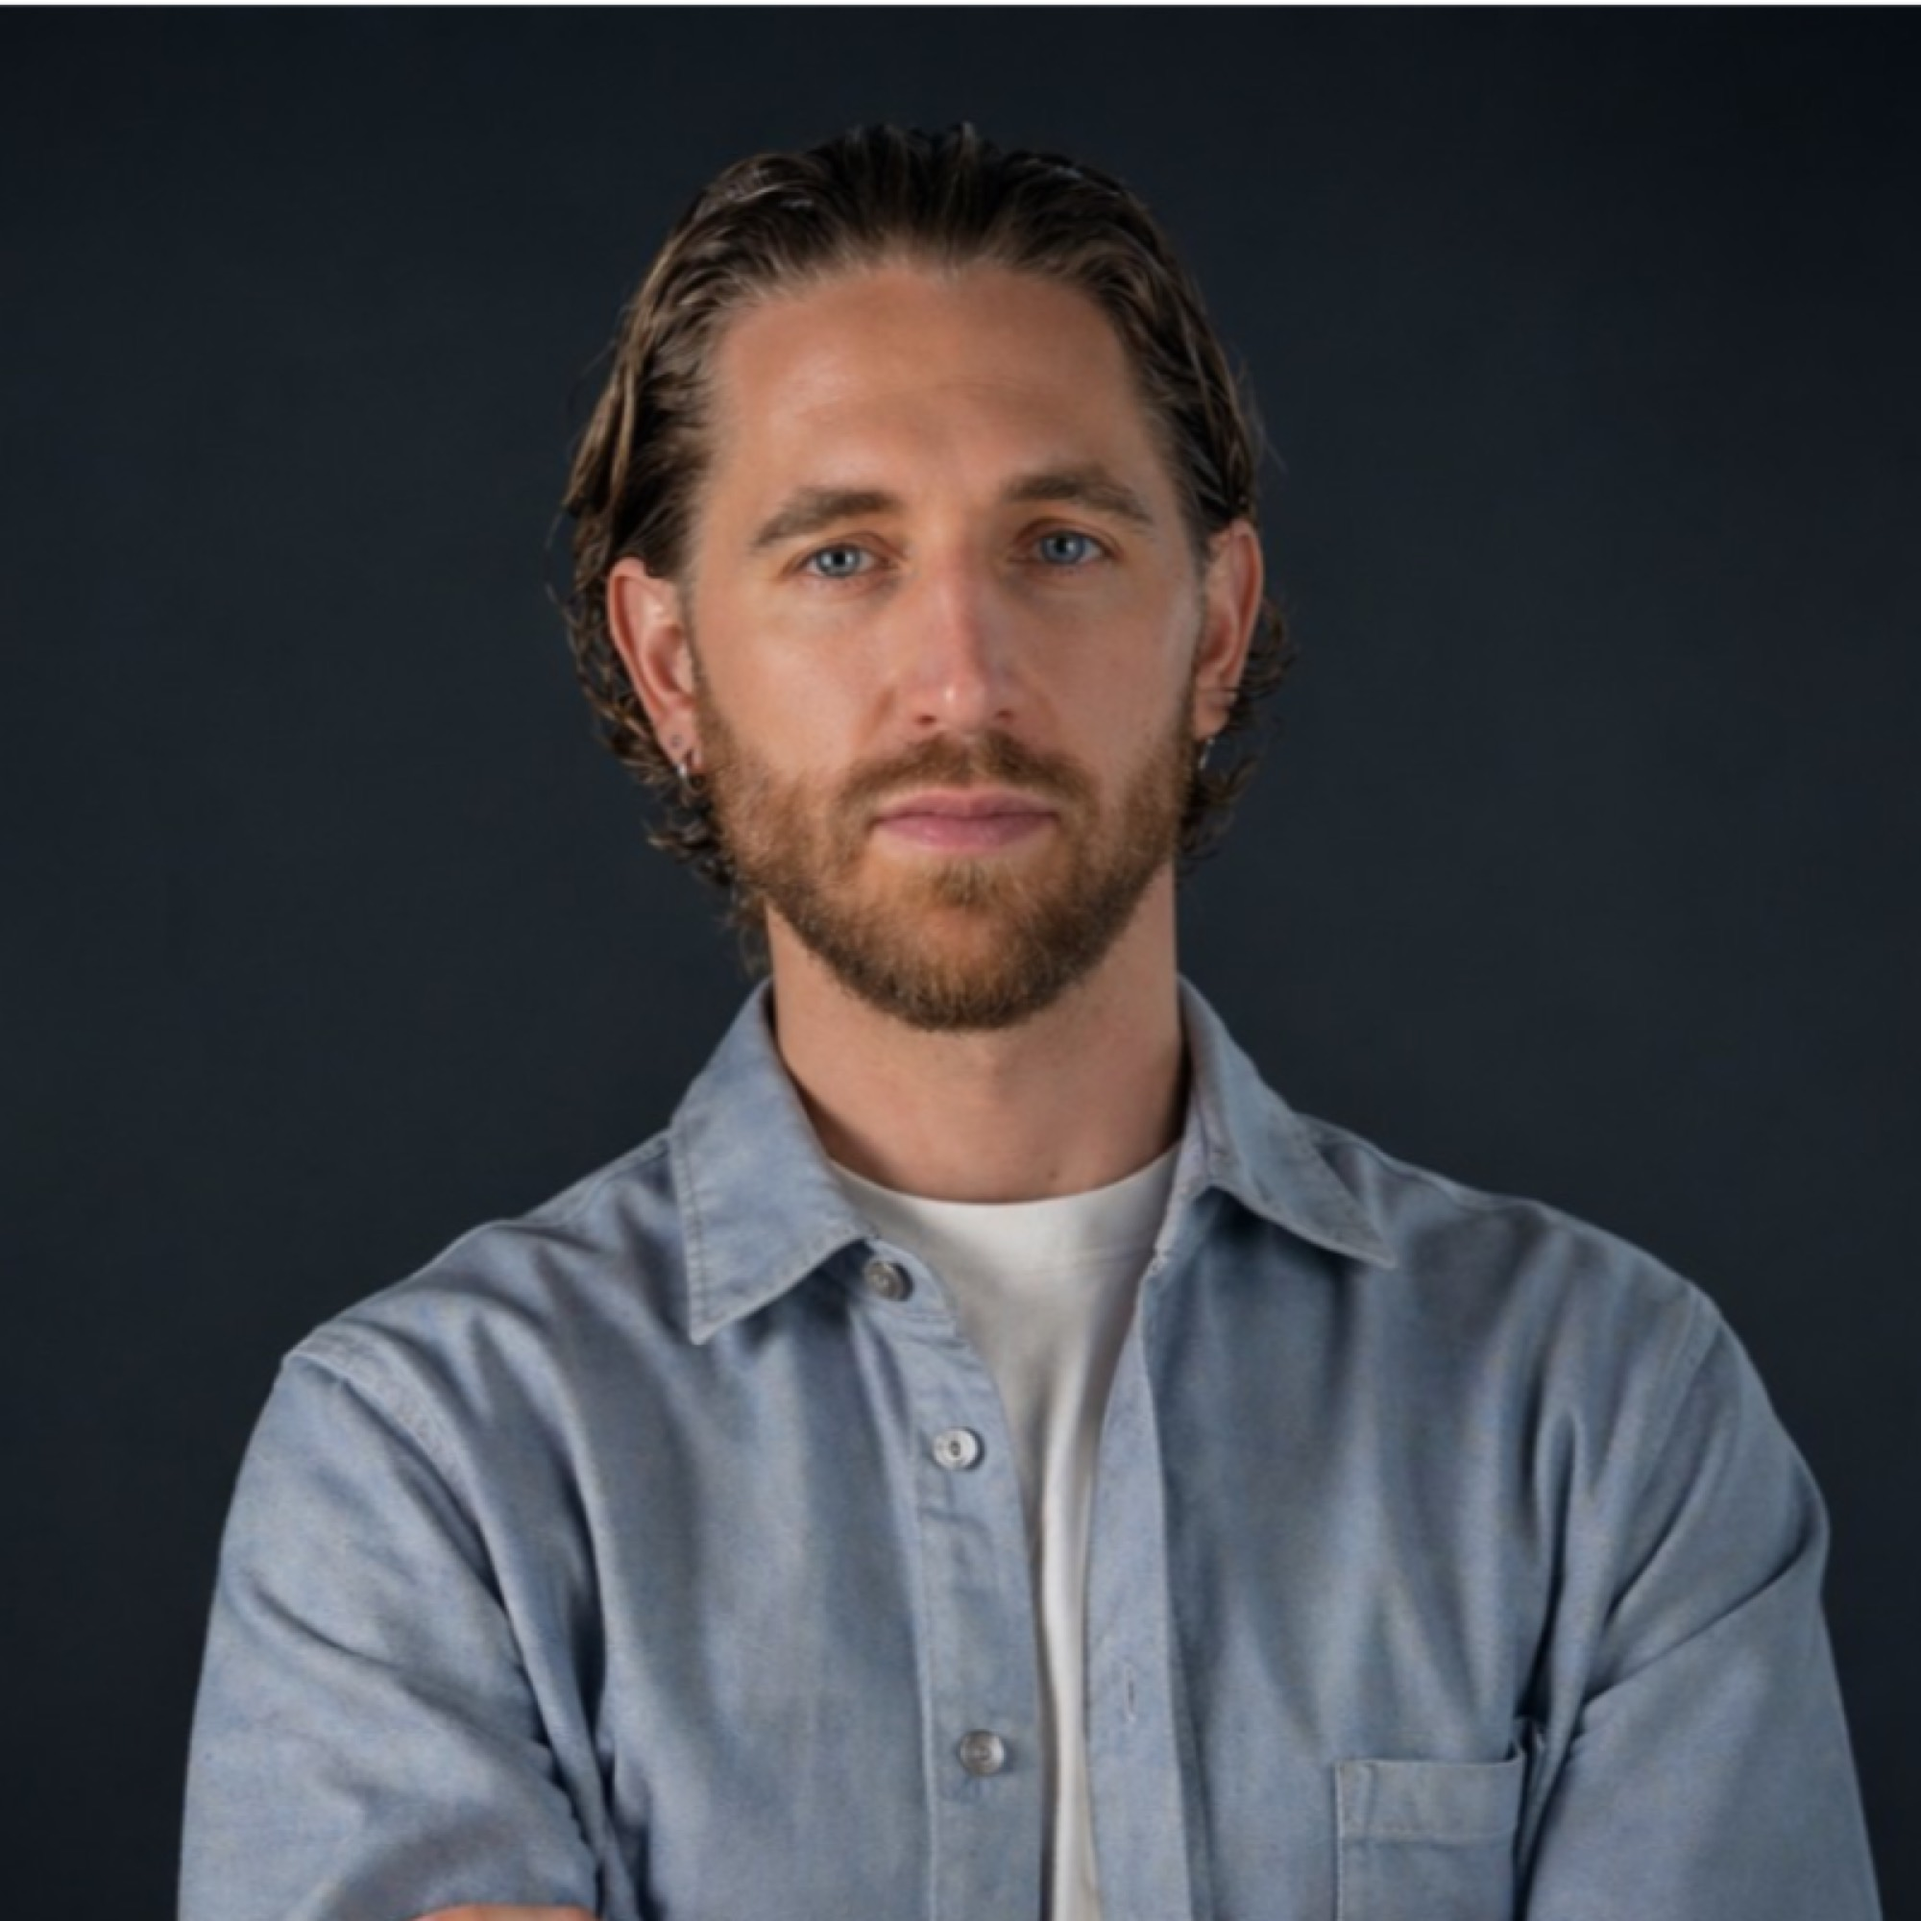
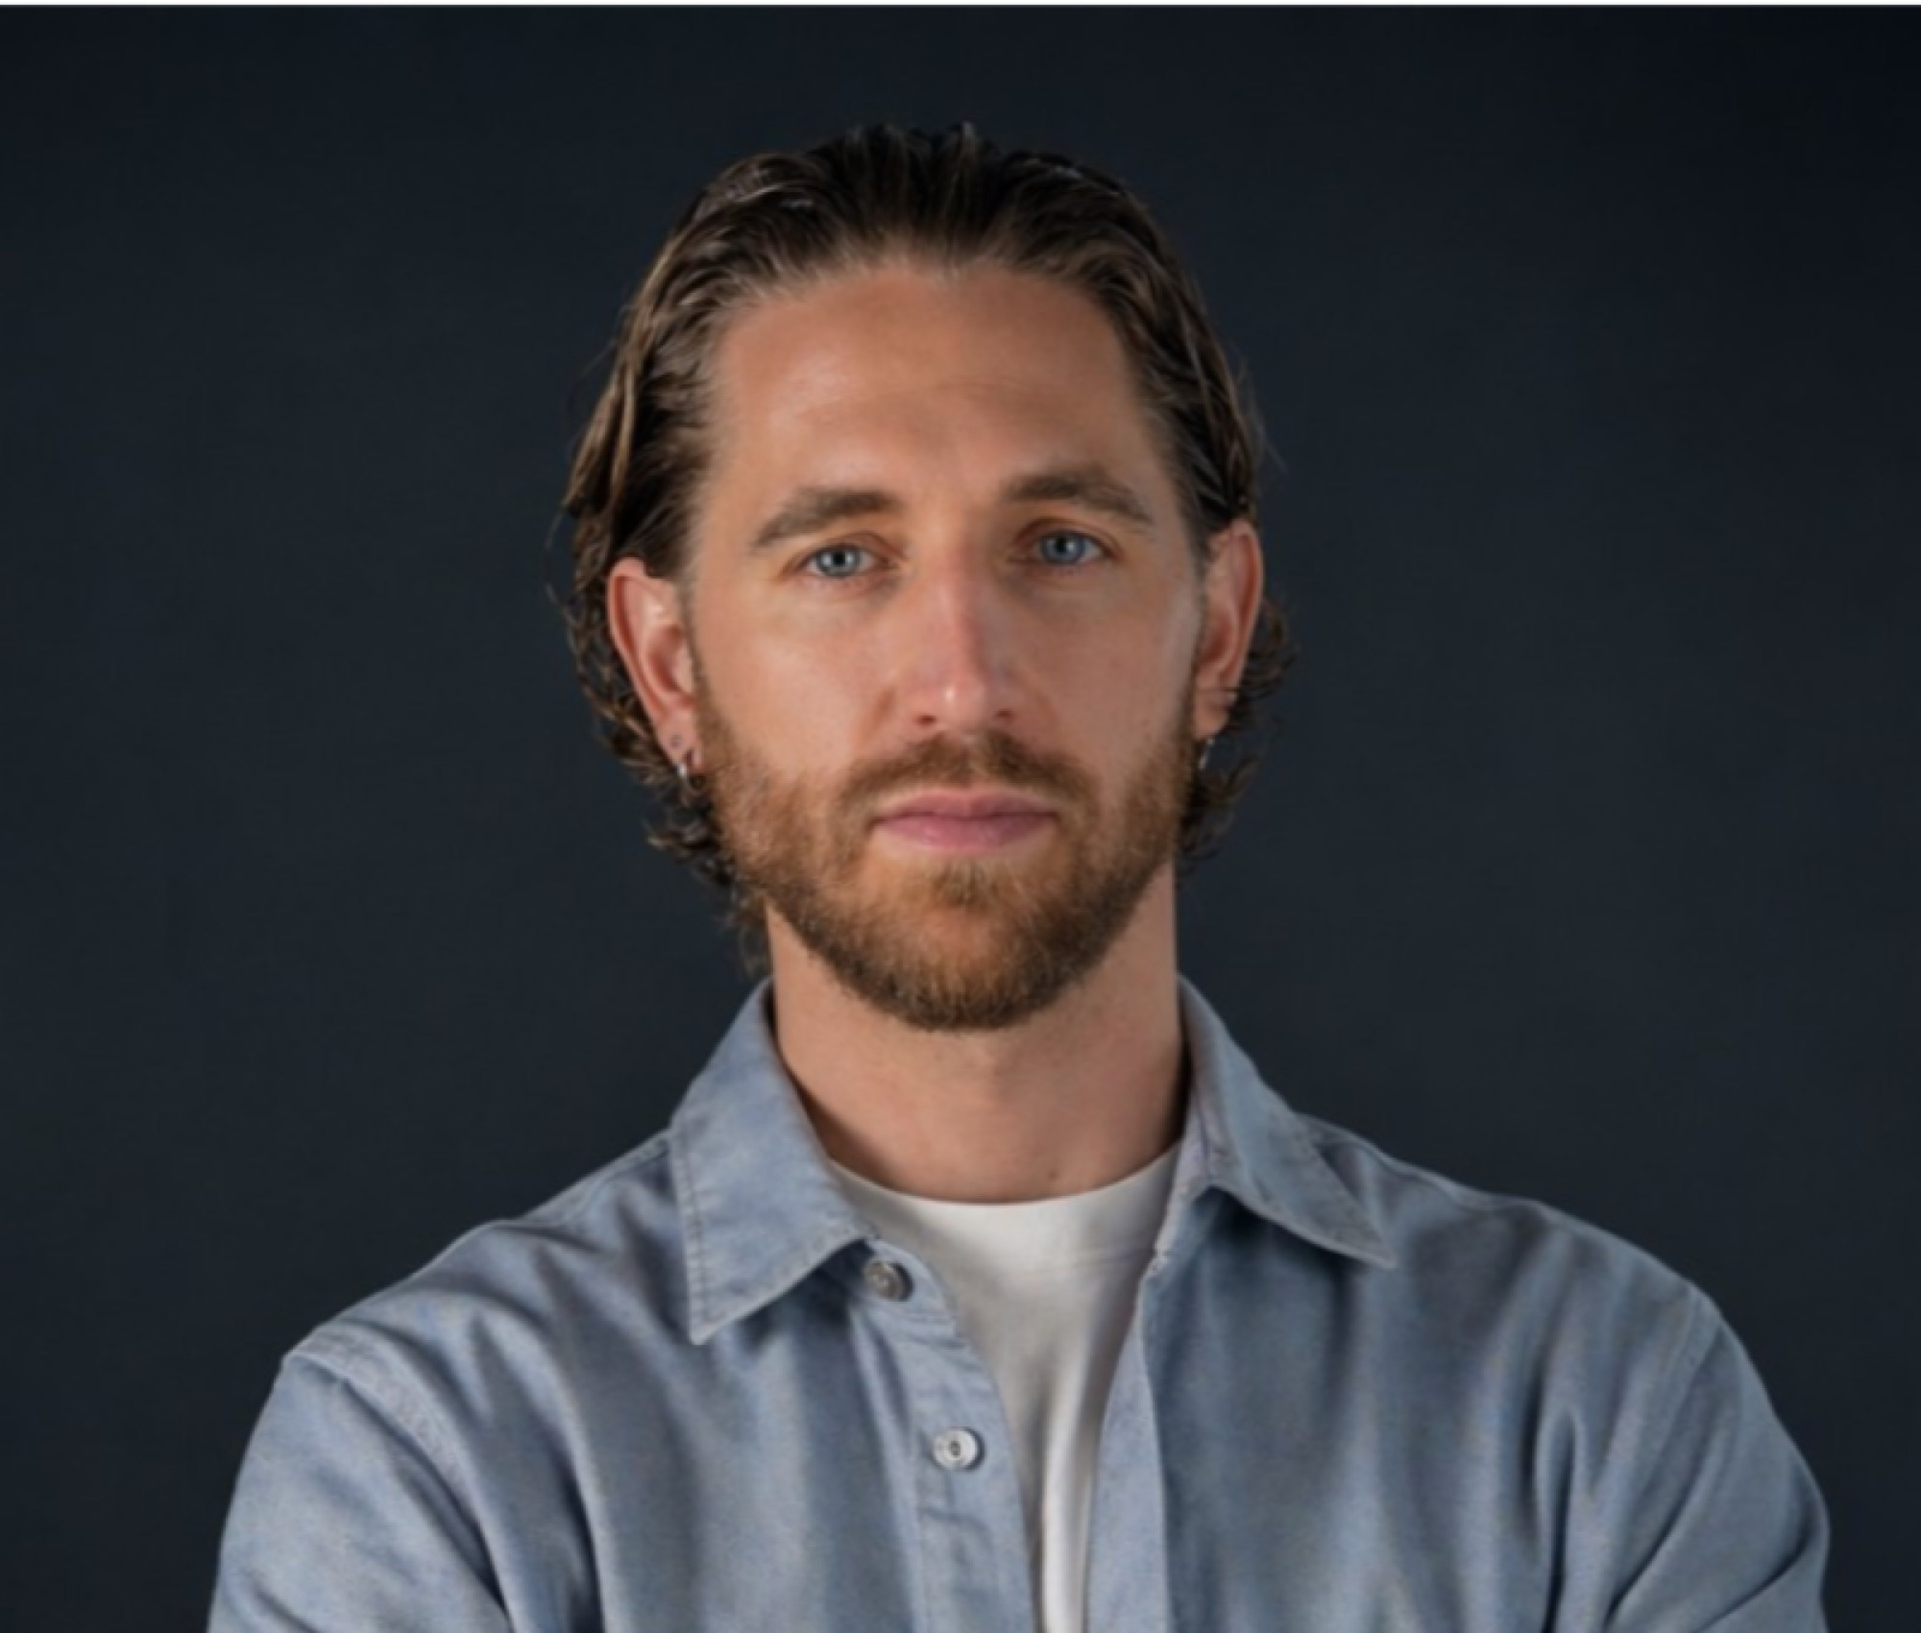
Fix white stripe at bottom of Giuliano portrait
- Crop 300px from bottom of assets/giuliano-russo.jpg
- Remove light undershirt area that appeared as white stripe against navy background
- Update width/height attributes in index.html and team.html to match new 800x680 ratio
- Add ?v=2 cache-busting query string to image src

diff --git a/index.html b/index.html
@@ -318,7 +318,7 @@
   <section class="section chapter" id="ueber-uns">
     <div class="container grid person-grid">
       <figure class="person-img">
-        <img class="wipe" src="assets/giuliano-russo.jpg" alt="Giuliano Russo, Tragwerksplaner, Berlin" width="800" height="800">
+        <img class="wipe" src="assets/giuliano-russo.jpg?v=2" alt="Giuliano Russo, Tragwerksplaner, Berlin" width="800" height="680">
       </figure>
       <div class="person-txt">
         <blockquote class="person-quote reveal">„Verlässliche Statik beginnt mit einem Partner, der Ihre Vision versteht.“</blockquote>

diff --git a/team.html b/team.html
@@ -54,7 +54,7 @@
   <section class="section chapter profile-hero">
     <div class="container grid profile-grid">
       <figure class="profile-img reveal">
-        <img src="assets/giuliano-russo.jpg" alt="Giuliano Russo, Tragwerksplaner und Gründer von Prime Structures in Berlin" width="800" height="800">
+        <img src="assets/giuliano-russo.jpg?v=2" alt="Giuliano Russo, Tragwerksplaner und Gründer von Prime Structures in Berlin" width="800" height="680">
       </figure>
       <div class="profile-txt">
         <p class="label reveal">Über uns</p>
